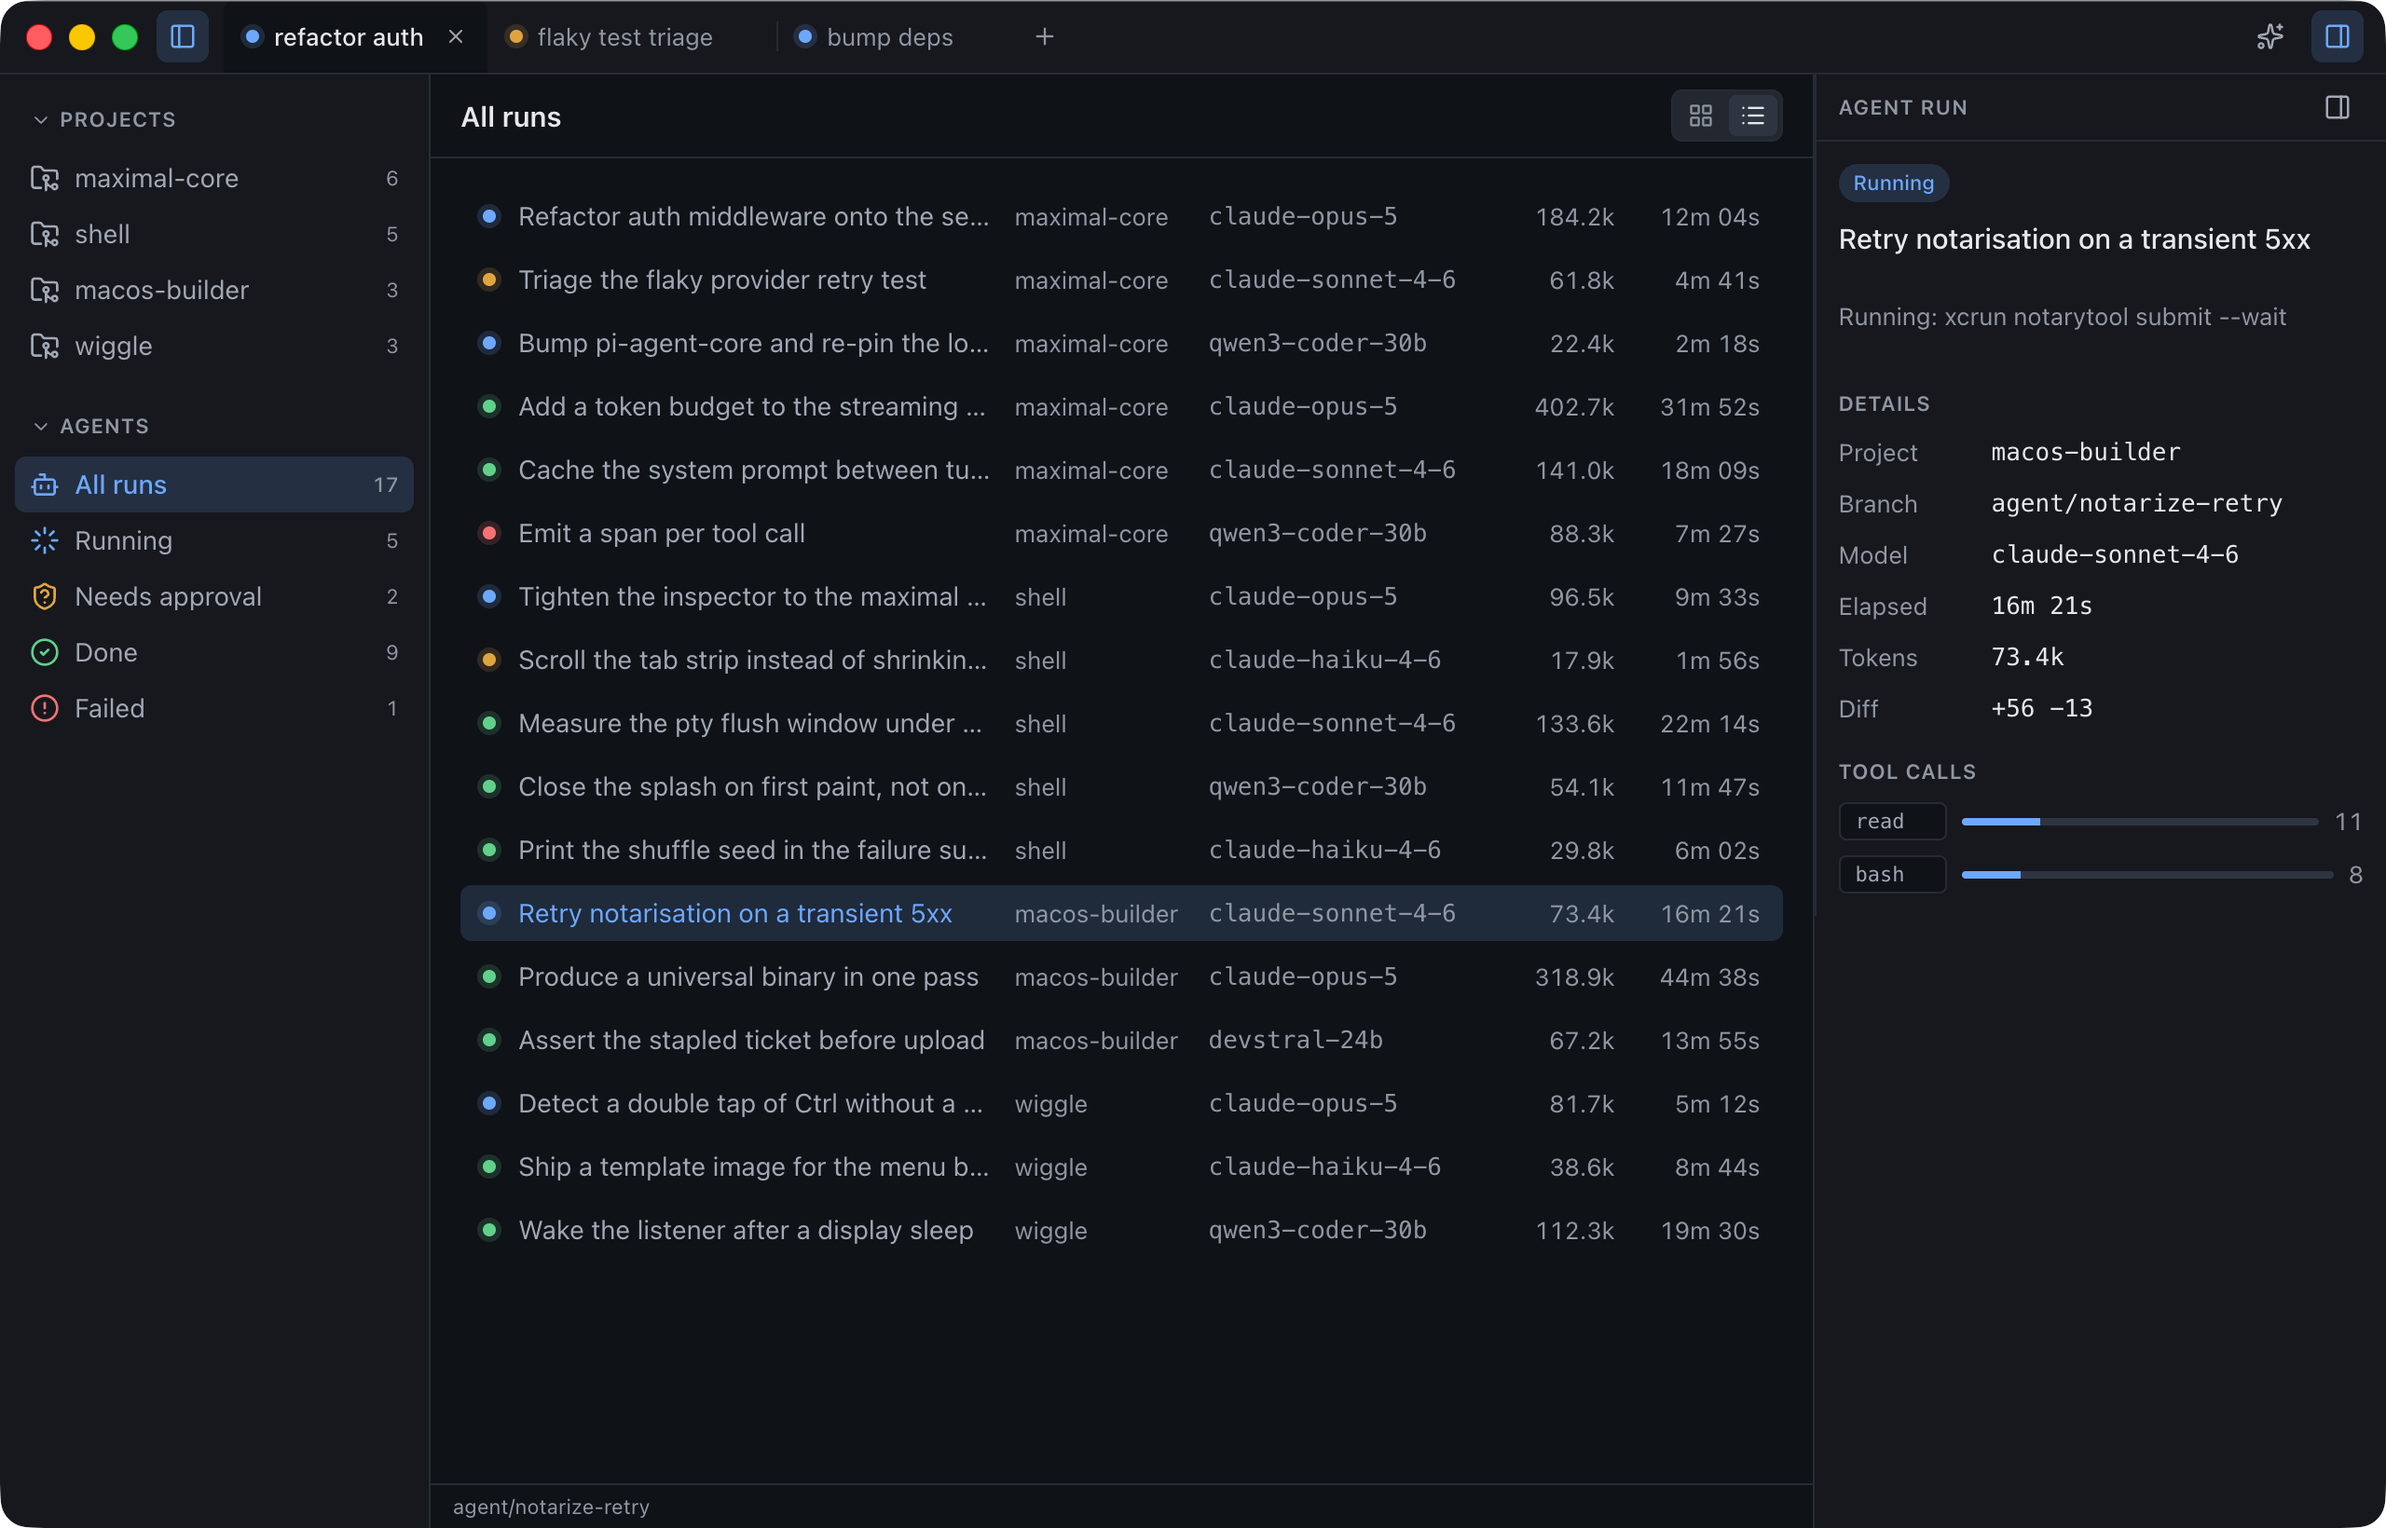
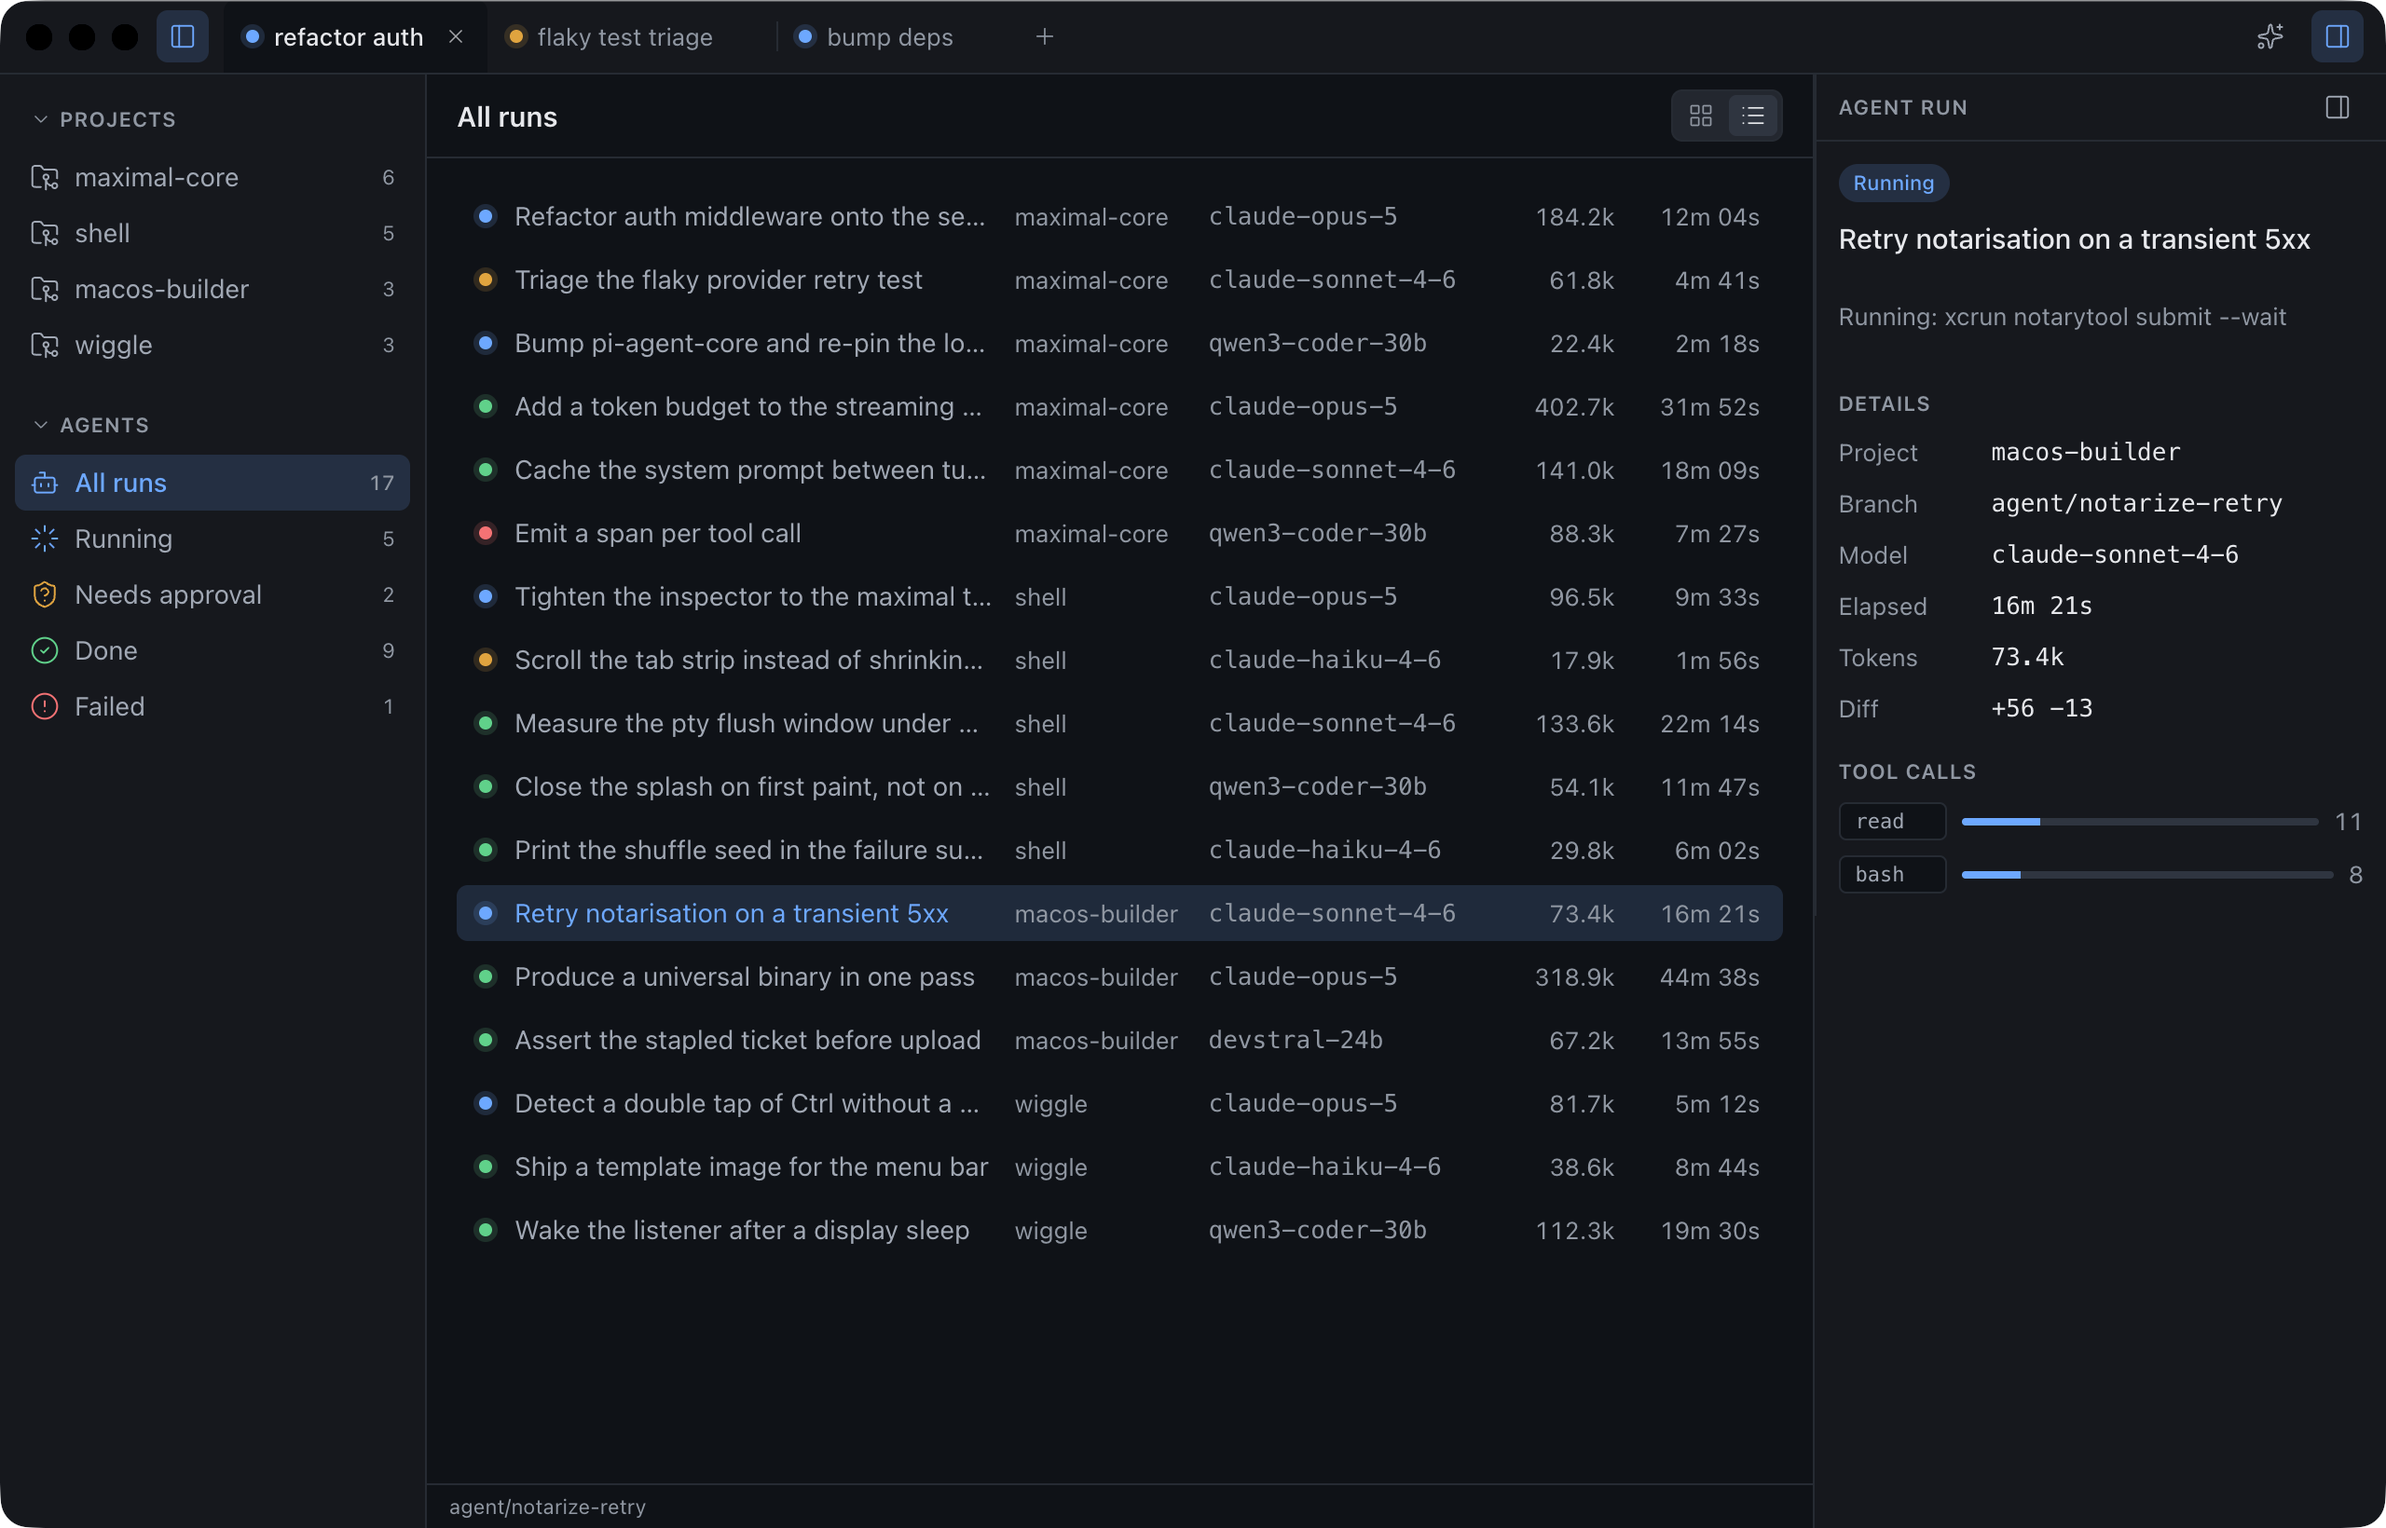
Give the navigation rail pixel geometry and a lighter hand
Four changes, three of which are the same underlying mistake: a rail holding
fixed-size icons was measured as a fraction of the window.

  - The rail is pixels now. Collapsed it was 4% — 51px at 1280 and 67px at
    1920 — around icons that stayed 16px, so the empty space grew with the
    display. 48px collapsed, 168 to 320 open.
  - That is also most of why the collapse felt like it resisted: the width
    at which it snapped shut moved with the window, so the same drag gave a
    different result on a different screen.
  - Collapsed padding drops to --space-1, since there is no label to inset.
  - Icons draw at stroke 1.5 rather than lucide's 2, set once in controls.css
    because doing it per call site means remembering it per call site.

And the section headings. Collapsed, a heading has no room for its label and
its chevron would disclose nothing, so it was not rendered — which moved
every icon below it. The space is kept now and a rule drawn in it, sharing
--nav-heading with the heading it stands in for. The first section keeps the
space and takes no rule: a line above the first item divides it from nothing.

The NavRail story used hardcoded widths that were not the shell's. It reads
the tokens now, so what the story shows is what the application does.

diff --git a/src/renderer/styles/shell.css b/src/renderer/styles/shell.css
@@ -164,7 +164,8 @@ body {
   display: flex;
   align-items: center;
   gap: var(--space-1);
-  padding: var(--space-1) var(--space-2);
+  height: var(--nav-heading);
+  padding: 0 var(--space-2);
   font-size: var(--text-xs);
   font-weight: var(--weight-lg);
   letter-spacing: var(--tracking-caps);
@@ -216,6 +217,10 @@ body {
   font-variant-numeric: tabular-nums;
 }
 
+.nav--collapsed {
+  padding: var(--space-3) var(--space-1);
+}
+
 .nav--collapsed .nav__item {
   justify-content: center;
   padding: 0;
@@ -225,6 +230,29 @@ body {
 .nav--collapsed .nav__item-count,
 .nav--collapsed .nav__heading span {
   display: none;
+}
+
+/*
+ * What stands in for a section heading when the rail is collapsed.
+ *
+ * The heading is not rendered at that width — there is no room for the label
+ * and the chevron would be a control with nothing to disclose. Removing it
+ * outright moved every icon below it, so the space is kept and a rule drawn in
+ * it. The first section gets the space and no rule: a line above the first
+ * item divides it from nothing.
+ */
+.nav__break {
+  display: flex;
+  align-items: center;
+  height: var(--nav-heading);
+  flex: none;
+}
+
+.nav__break:not([data-first])::before {
+  content: '';
+  width: 100%;
+  height: 1px;
+  background: var(--border-subtle);
 }
 
 /* ------------------------------------------------------------------- tabs */

diff --git a/src/renderer/styles/tokens.css b/src/renderer/styles/tokens.css
@@ -84,6 +84,22 @@
    */
   --tab-min: 112px;
   --tab-max: 216px;
+
+  /*
+   * ---- Navigation rail ----
+   *
+   * Pixels, not percentages. A rail holding 16px icons was sized as 4% of the
+   * window, so it was 51px at 1280 and 67px at 1920 — the icons stayed put and
+   * the empty space around them grew.
+   *
+   * `--nav-heading` is shared by a section heading and by the break that
+   * stands in for it when collapsed, so the icons below do not shift.
+   */
+  --nav-collapsed: 48px;
+  --nav-min: 168px;
+  --nav-max: 320px;
+  --nav-default: 228px;
+  --nav-heading: 24px;
   /* How far the fade reaches back from the right edge of a truncated label. */
   --tab-fade: 24px;
 
@@ -93,6 +109,9 @@
    * One ring. This was written out five times in three different geometries,
    * so a control's focus outline depended on which stylesheet it landed in.
    */
+  /* Lucide draws at 2. That reads as heavy next to text at these sizes. */
+  --icon-stroke: 1.5;
+
   --focus-ring-width: 2px;
   --focus-ring-offset: 2px;
   --focus-ring-color: var(--accent);

diff --git a/src/renderer/components/NavRail.tsx b/src/renderer/components/NavRail.tsx
@@ -57,7 +57,7 @@ export function NavRail<Id extends string, Status extends string = string>({
       aria-label={label}
       data-testid={testId}
     >
-      {sections.map((section) => (
+      {sections.map((section, index) => (
         <Collapsible.Root
           key={section.id}
           className="nav__section"
@@ -66,7 +66,10 @@ export function NavRail<Id extends string, Status extends string = string>({
             setOpen((prev) => ({ ...prev, [section.id]: next }))
           }
         >
-          {!collapsed && (
+          {collapsed ? (
+            // The heading's space, kept. Removing it shifted every icon below.
+            <span className="nav__break" data-first={index === 0 || undefined} />
+          ) : (
             <Collapsible.Trigger className="nav__heading">
               <ChevronDown className="nav__chevron" size={12} />
               <span>{section.label}</span>

diff --git a/src/renderer/components/ShellLayout.tsx b/src/renderer/components/ShellLayout.tsx
@@ -40,7 +40,20 @@ export interface PanelSize {
   collapsed: string;
 }
 
-const LEFT: PanelSize = { default: '18', min: '12', max: '30', collapsed: '4' };
+/*
+ * Pixels for the rail, percentages for the rest.
+ *
+ * A rail holds fixed-size icons and a label, so what it needs does not change
+ * with the window. As a percentage the collapsed rail grew from 51px at 1280
+ * to 67px around 16px icons, and the width at which it snapped shut moved with
+ * the window too — which is most of why the collapse felt like it resisted.
+ */
+const LEFT: PanelSize = {
+  default: '228px',
+  min: '168px',
+  max: '320px',
+  collapsed: '48px',
+};
 const RIGHT: PanelSize = { default: '22', min: '16', max: '36', collapsed: '0' };
 const BOTTOM: PanelSize = { default: '30', min: '10', max: '70', collapsed: '0' };
 

diff --git a/src/renderer/components/NavRail.stories.tsx b/src/renderer/components/NavRail.stories.tsx
@@ -90,7 +90,8 @@ function Frame({ collapsed, children }: { collapsed: boolean; children: React.Re
     <div
       className="panel"
       style={{
-        width: collapsed ? 64 : 240,
+        // The widths the shell actually gives it, from the tokens.
+        width: collapsed ? 'var(--nav-collapsed)' : 'var(--nav-default)',
         height: 420,
         border: '1px solid var(--border-subtle)',
       }}

diff --git a/src/renderer/styles/controls.css b/src/renderer/styles/controls.css
@@ -26,6 +26,16 @@ button {
 }
 
 /*
+ * Icon weight, once.
+ *
+ * Lucide sets `stroke-width` as an attribute, which this property overrides.
+ * Setting it per call site would mean remembering it at every one.
+ */
+svg {
+  stroke-width: var(--icon-stroke);
+}
+
+/*
  * The focus ring, once.
  *
  * Five copies existed, in three geometries: two used a 2px offset, two used

diff --git a/src/renderer/lib/contrast.ts b/src/renderer/lib/contrast.ts
@@ -108,7 +108,9 @@ export const REQUIRED_TOKENS: string[] = [
   '--focus-ring-width',
   '--font-body',
   '--font-mono',
+  '--icon-stroke',
   '--leading-base',
+  '--nav-heading',
   '--opacity-disabled',
   '--radius-card',
   '--radius-chip',
